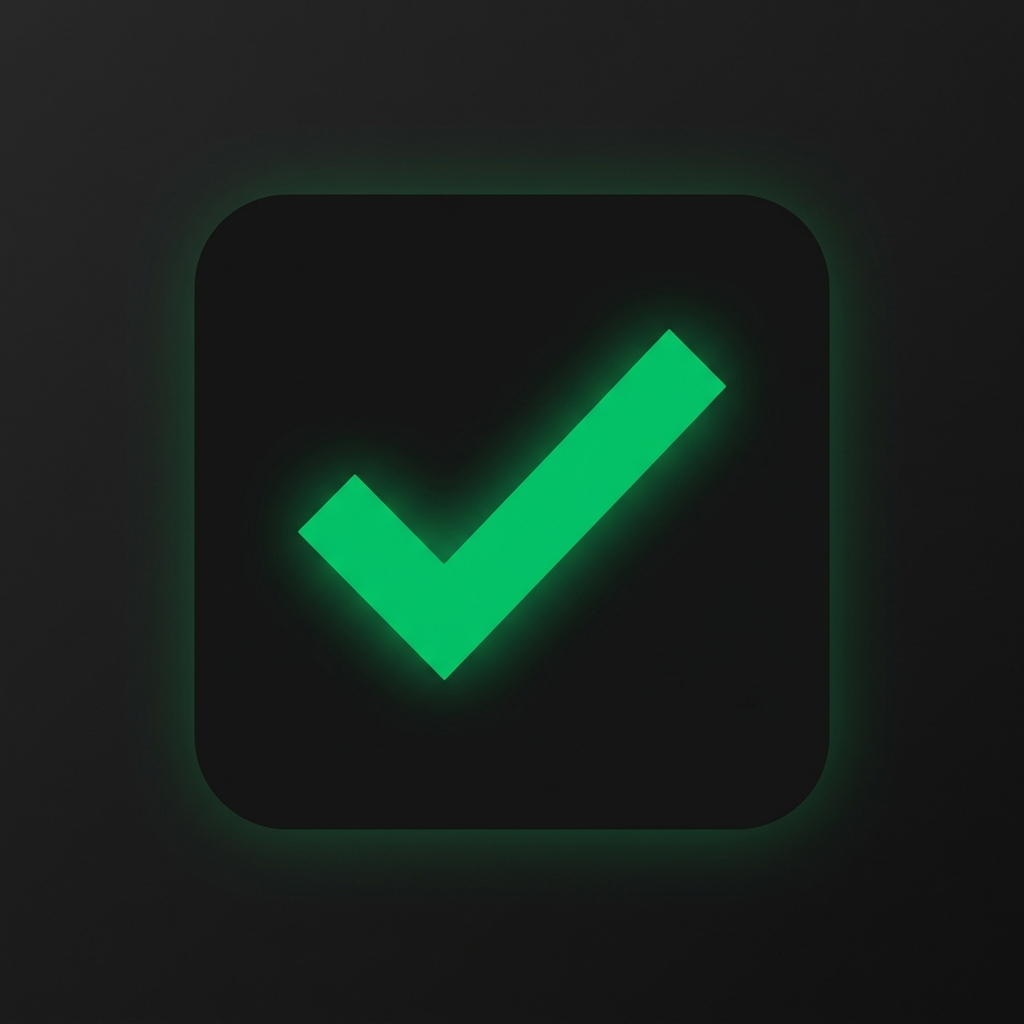
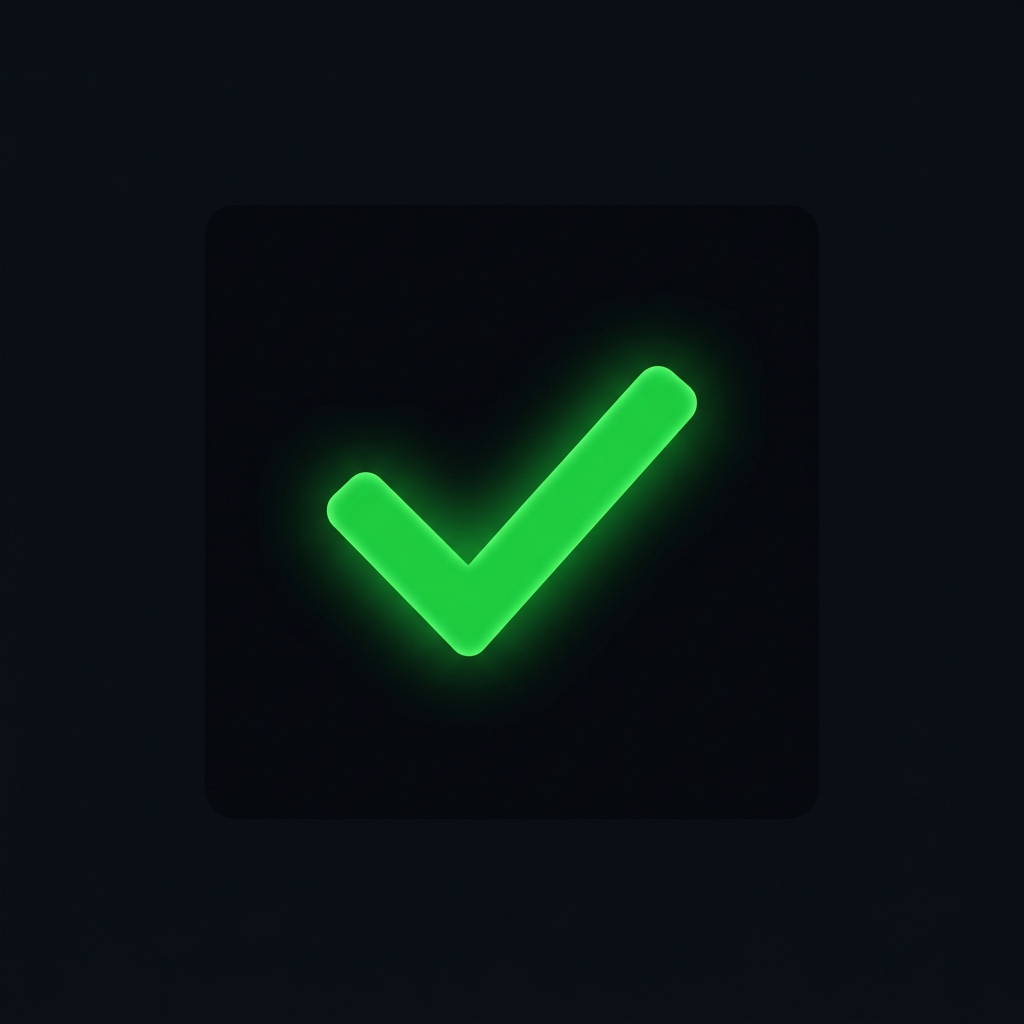
Add files via upload

Changed region(s): [[0.0, 0.0, 0.8438, 0.8438], [0.2812, 0.2812, 0.7188, 0.6875]]

diff --git a/index.html b/index.html
@@ -185,21 +185,29 @@
                         <p>Escolha o veículo da frota que você operará neste turno.</p>
                     </div>
                     <div class="input-group">
-                        <label for="frota">Veículo / Frota</label>
-                        <div class="select-wrapper">
-                            <svg class="input-icon" xmlns="http://www.w3.org/2000/svg" viewBox="0 0 24 24" fill="none"
-                                stroke="currentColor" stroke-width="2" stroke-linecap="round" stroke-linejoin="round">
-                                <path
-                                    d="M19 17h2c.6 0 1-.4 1-1v-3c0-.9-.7-1.7-1.5-1.9C18.7 10.6 16 10 16 10s-1.3-1.4-2.2-2.3c-.5-.4-1.1-.7-1.8-.7H5c-.6 0-1 .4-1 1v7c0 .6.4 1 1 1h1" />
-                                <circle cx="7.5" cy="17.5" r="2.5" />
-                                <circle cx="16.5" cy="17.5" r="2.5" />
+                        <label for="frota-search">Veículo / Frota</label>
+                        <div class="input-wrapper custom-searchable-dropdown" id="frota-dropdown-container" style="position: relative;">
+                            <svg class="input-icon" xmlns="http://www.w3.org/2000/svg" viewBox="0 0 24 24" fill="none" stroke="currentColor" stroke-width="2" stroke-linecap="round" stroke-linejoin="round">
+                                <path d="M19 17h2c.6 0 1-.4 1-1v-3c0-.9-.7-1.7-1.5-1.9C18.7 10.6 16 10 16 10s-1.3-1.4-2.2-2.3c-.5-.4-1.1-.7-1.8-.7H5c-.6 0-1 .4-1 1v7c0 .6.4 1 1 1h1"/>
+                                <circle cx="7.5" cy="17.5" r="2.5"/>
+                                <circle cx="16.5" cy="17.5" r="2.5"/>
                             </svg>
-                            <select id="frota" required>
-                                <option value="" disabled selected hidden>Carregando frotas...</option>
+                            <input type="text" id="frota-search" placeholder="Digite para buscar o veículo..." required autocomplete="off" style="width: 100%; padding-right: 40px !important;">
+                            <button type="button" class="dropdown-trigger-btn" id="frota-dropdown-trigger" style="position: absolute; right: 12px; top: 50%; transform: translateY(-50%); background: transparent; border: none; color: var(--text-secondary); cursor: pointer; display: flex; align-items: center; justify-content: center; padding: 4px; border-radius: 4px; z-index: 5;">
+                                <svg xmlns="http://www.w3.org/2000/svg" viewBox="0 0 24 24" fill="none" stroke="currentColor" stroke-width="2" stroke-linecap="round" stroke-linejoin="round" style="width: 16px; height: 16px; transition: transform var(--transition-fast);"><polyline points="6 9 12 15 18 9"/></svg>
+                            </button>
+                            
+                            <!-- Hidden select for database queries and retrocompatibility -->
+                            <select id="frota" style="display: none;" required>
+                                <option value="" disabled selected hidden>Selecione o veículo</option>
                             </select>
+                            
+                            <!-- Custom dropdown list box -->
+                            <div class="custom-dropdown-list" id="frota-dropdown-list" style="display: none; position: absolute; top: 100%; left: 0; width: 100%; max-height: 200px; background: #0d1420; border: 1px solid var(--border-color); border-radius: 10px; margin-top: 5px; overflow-y: auto; z-index: 100; box-shadow: 0 10px 25px rgba(0,0,0,0.5);">
+                                <!-- Opções carregadas via JS -->
+                            </div>
                         </div>
-                        <span class="validation-message" id="error-frota">Por favor, selecione um veículo da
-                            frota.</span>
+                        <span class="validation-message" id="error-frota">Por favor, selecione um veículo válido da lista.</span>
 
                         <!-- Alerta de observação do turno anterior (Firestore query) -->
                         <div class="next-shift-alert" id="prev-shift-notes-container" style="display: none;">

diff --git a/admin.html b/admin.html
@@ -77,9 +77,14 @@
                     Usuário ou senha incorretos!
                 </span>
 
-                <button type="submit" class="btn-action btn-primary" style="width: 100%; margin-top: 25px;">
-                    Acessar Painel
-                </button>
+                <div style="display: flex; gap: 12px; margin-top: 25px;">
+                    <a href="index.html" class="btn-action btn-back" style="width: 35%; display: flex; align-items: center; justify-content: center; text-decoration: none; font-size: 0.9rem; font-weight: 600; text-transform: uppercase; letter-spacing: 1px; border: 1px solid var(--border-color); border-radius: 10px; color: var(--text-primary); transition: all var(--transition-fast); background-color: rgba(255,255,255,0.02);">
+                        Voltar
+                    </a>
+                    <button type="submit" class="btn-action btn-primary" style="width: 65%;">
+                        Acessar Painel
+                    </button>
+                </div>
             </form>
         </div>
     </div>

diff --git a/sw.js b/sw.js
@@ -7,7 +7,7 @@ const ASSETS = [
     './app.js',
     './admin.js',
     './manifest.json',
-    './icon.svg'
+    './icon.png'
 ];
 
 // Instalação do Service Worker e caching de recursos essenciais